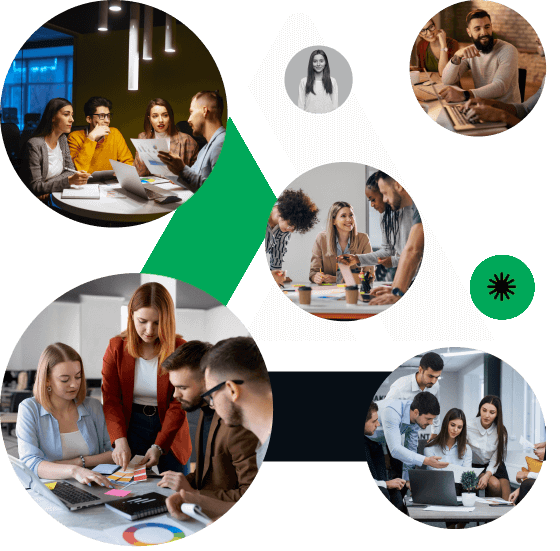
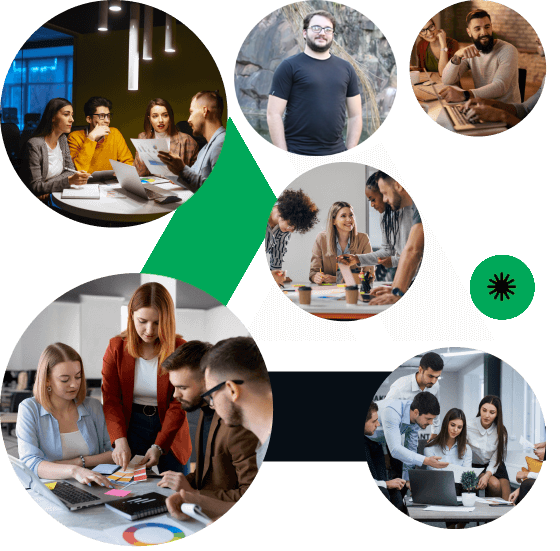
ADJUST PAGES

Changed region(s): [[0.3946, 0.0, 0.7286, 0.3085]]

diff --git a/pkwebagency/src/components/sections/Team/Team.tsx b/pkwebagency/src/components/sections/Team/Team.tsx
@@ -10,7 +10,7 @@ export default function Team() {
                         <div className="col-xl-7 col-lg-9">
                             <div className="section-title text-center mb-70 wow fadeInUp delay-0-2s">
                                 <span className="sub-title mb-15">team member of company</span>
-                                <h2>Extra ordinary <span>creation</span> Team behind</h2>
+                                <h2>Equipe de <span>criação</span> estraordinária</h2>
                             </div>
                         </div>
                     </div>
@@ -18,6 +18,20 @@ export default function Team() {
                 <div className="container container-1450">
                     <div className="row justify-content-center">
                         <div className="col-xl-3 col-lg-4 col-sm-6">
+                            <div className="team-member wow fadeInUp delay-0-2s">
+                                <div className="image">
+                                    <img src="/assets/images/team/team1.jpg" alt="Team" />
+                                </div>
+                                <div className="content">
+                                    <span className="designation">Creative Director</span>
+                                    <h6>Bruno Purcinelli</h6>
+                                    <div className="social-style-two">
+                                        <Link href="#"><i className="fab fa-linkedin" /></Link>
+                                    </div>
+                                </div>
+                            </div>
+                        </div>
+                        {/* <div className="col-xl-3 col-lg-4 col-sm-6">
                             <div className="team-member wow fadeInUp delay-0-2s">
                                 <div className="image">
                                     <img src="/assets/images/team/team1.jpg" alt="Team" />
@@ -84,7 +98,7 @@ export default function Team() {
                                     </div>
                                 </div>
                             </div>
-                        </div>
+                        </div> */}
                     </div>
                 </div>
                 <div className="team-shapes">

diff --git a/pkwebagency/src/components/sections/Hero/Hero.tsx b/pkwebagency/src/components/sections/Hero/Hero.tsx
@@ -9,9 +9,9 @@ export default function Hero() {
                     <div className="row align-items-center">
                         <div className="col-lg-6 order-lg-2">
                             <div className="hero-content-part rmb-55">
-                                <h1 className="wow fadeInUp delay-0-2s"><img src="/assets/images/hero/PkTech.png" alt="Shape" /></h1>
+                                <h1 className="wow fadeInUp delay-0-2s"><img src="/assets/images/hero/PkTech.png" alt="Pk tech"/></h1>
                                 <div className="hero-sub-heading wow fadeInUp delay-0-4s">
-                                    <img src="/assets/images/hero/iconePk.png" alt="Shape" />
+                                    <img src="/assets/images/hero/iconePk.png" alt="Pktech" />
                                     <span className="agency-text">Soluções</span>
                                 </div>
                                 <div className="text wow fadeInUp delay-0-6s">Bem-vindo à <b>Pk Tech</b>! Somos uma empresa de desenvolvimento web profissional e confiável que oferece uma ampla gama de serviços para atender às suas necessidades.</div>
@@ -21,7 +21,7 @@ export default function Hero() {
                             <div className="hero-image-part">
                                 <div className="hero-main-img wow fadeInRight delay-0-2s">
                                     <img src="/assets/images/hero/hero-main.jpg" alt="Hero" />
-                                    <VideoPopup style={1}/>
+                                    {/* <VideoPopup style={1}/> */}
                                 </div>
                                 {/* <div className="mail-us wow fadeInRight delay-0-4s">
                                     <i className="far fa-at" />

diff --git a/pkwebagency/src/components/sections/About/About.tsx b/pkwebagency/src/components/sections/About/About.tsx
@@ -24,9 +24,9 @@ export default function About1() {
                                 <Link href="/contact"><img src="/assets/images/client-logos/client-logo1.png" alt="Client Logo" /></Link>
                                 <Link href="/contact"><img src="/assets/images/client-logos/client-logo2.png" alt="Client Logo" /></Link>
                                 <Link href="/contact"><img src="/assets/images/client-logos/client-logo3.png" alt="Client Logo" /></Link>
-                                <Link href="/contact"><img src="/assets/images/client-logos/client-logo4.png" alt="Client Logo" /></Link>
+                                <Link href="/contact"><img src="/assets/images/client-logos/client-logo10.png" alt="Client Logo" /></Link>
                                 <Link href="/contact"><img src="/assets/images/client-logos/client-logo5.png" alt="Client Logo" /></Link>
-                                <Link href="/contact"><img src="/assets/images/client-logos/client-logo6.png" alt="Client Logo" /></Link>
+                                <Link href="/contact"><img src="/assets/images/client-logos/client-logo11.png" alt="Client Logo" /></Link>
                             </div>
                         </div>
                     </div>

diff --git a/pkwebagency/src/app/page.tsx b/pkwebagency/src/app/page.tsx
@@ -22,7 +22,7 @@ export default function Home() {
   return (
     <>
 
-        <Layout headerStyle={1} footerStyle={1} bodyCls="home-one"  breadcrumbTitle="Home">
+        <Layout headerStyle={1} footerStyle={1} bodyCls="home-one"  breadcrumbTitle="">
             <Hero />
             <Headline1 />
             <About />
@@ -31,12 +31,12 @@ export default function Home() {
             <Headline2 />
             <AboutAgency />
             <Headline3 />
-            {/* <Portfolio /> */}
+            <Portfolio />
             {/* <Awward /> */}
             {/* <Headline4 /> */}
-            {/* <Team /> */}
-            <Testimonials />
-            {/* <Headline5 /> */}
+            <Team />
+            {/* <Testimonials /> */}
+            <Headline5 />
             {/* <Blog /> */}
             <LetsTalk />
         </Layout>
